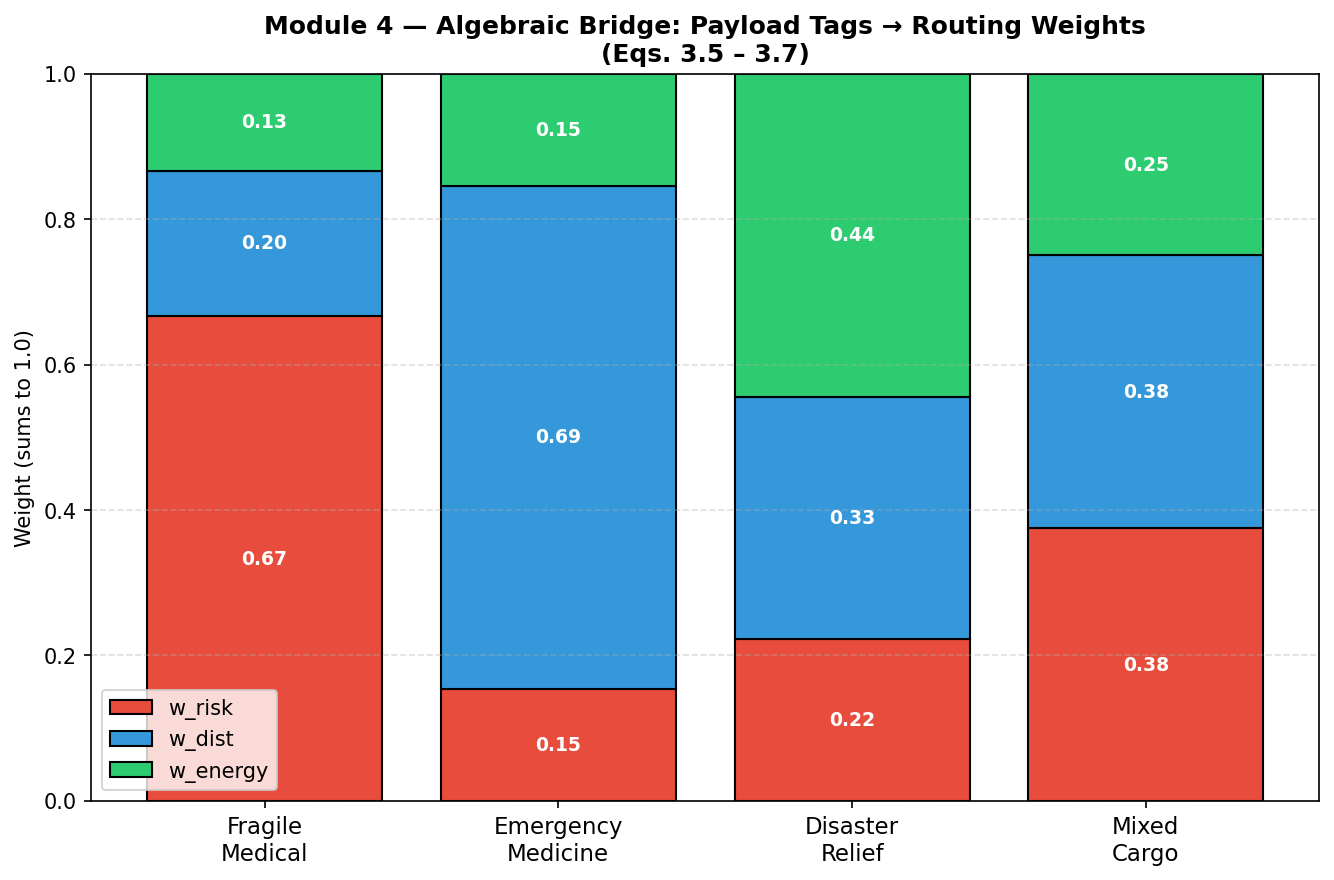
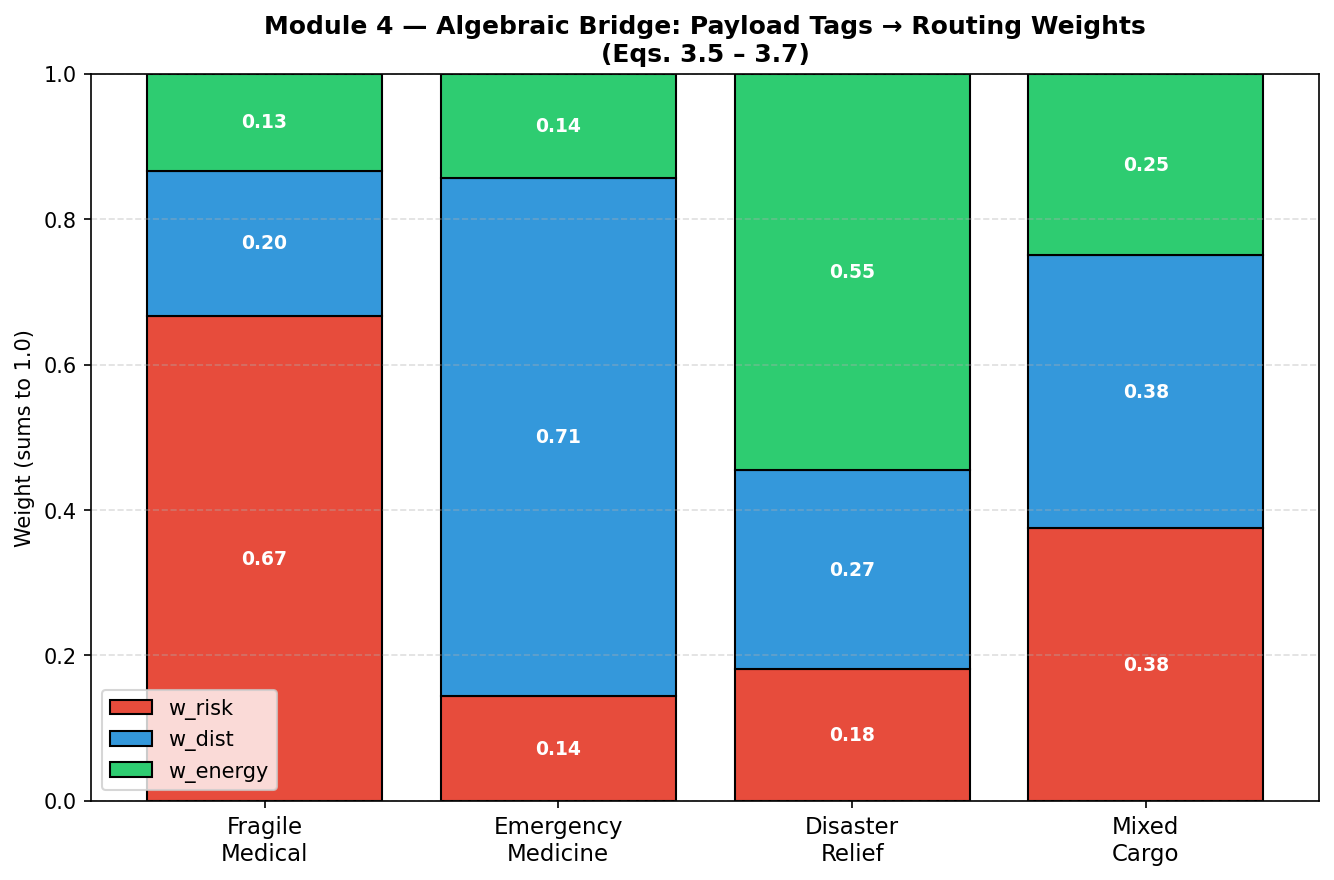
fix(tier2): raise disaster-relief preset to heaviest weight class, refresh demo figures
disaster_relief was tagged W=2 (medium), but the report's own motivation
section describes disaster-relief bulk supplies as weighing significantly
more than the other payload scenarios -- it should be the heaviest class.
Bumped to W=3.

On the small synthetic graph this collapses disaster_relief onto the same
extreme point as emergency_medicine (coarse 114-route front); on the
OSM/Chennai graph (79-route front, the real deployment target) it lands
on a distinct, correctly non-extreme point near minimum energy. Table 3.2
and the context doc's payload-preset table (committed separately) now
report the OSM-derived numbers, and fix a pre-existing staleness in the
emergency_medicine row that was missing the P>=4 amplification step.

Regenerates the demo output figures (synthetic + OSM) to match.

diff --git a/Review 1/Implementation/module4_tier2_payload.py b/Review 1/Implementation/module4_tier2_payload.py
@@ -68,7 +68,7 @@ PAYLOAD_PRESETS = {
                             "label": "Fragile\nMedical"},
     "emergency_medicine":  {"F": 1, "W": 1, "U": 3, "P": 5,
                             "label": "Emergency\nMedicine"},
-    "disaster_relief":     {"F": 1, "W": 2, "U": 1, "P": 2,
+    "disaster_relief":     {"F": 1, "W": 3, "U": 1, "P": 2,
                             "label": "Disaster\nRelief"},
     "mixed_cargo":         {"F": 3, "W": 2, "U": 2, "P": 3,
                             "label": "Mixed\nCargo"},
